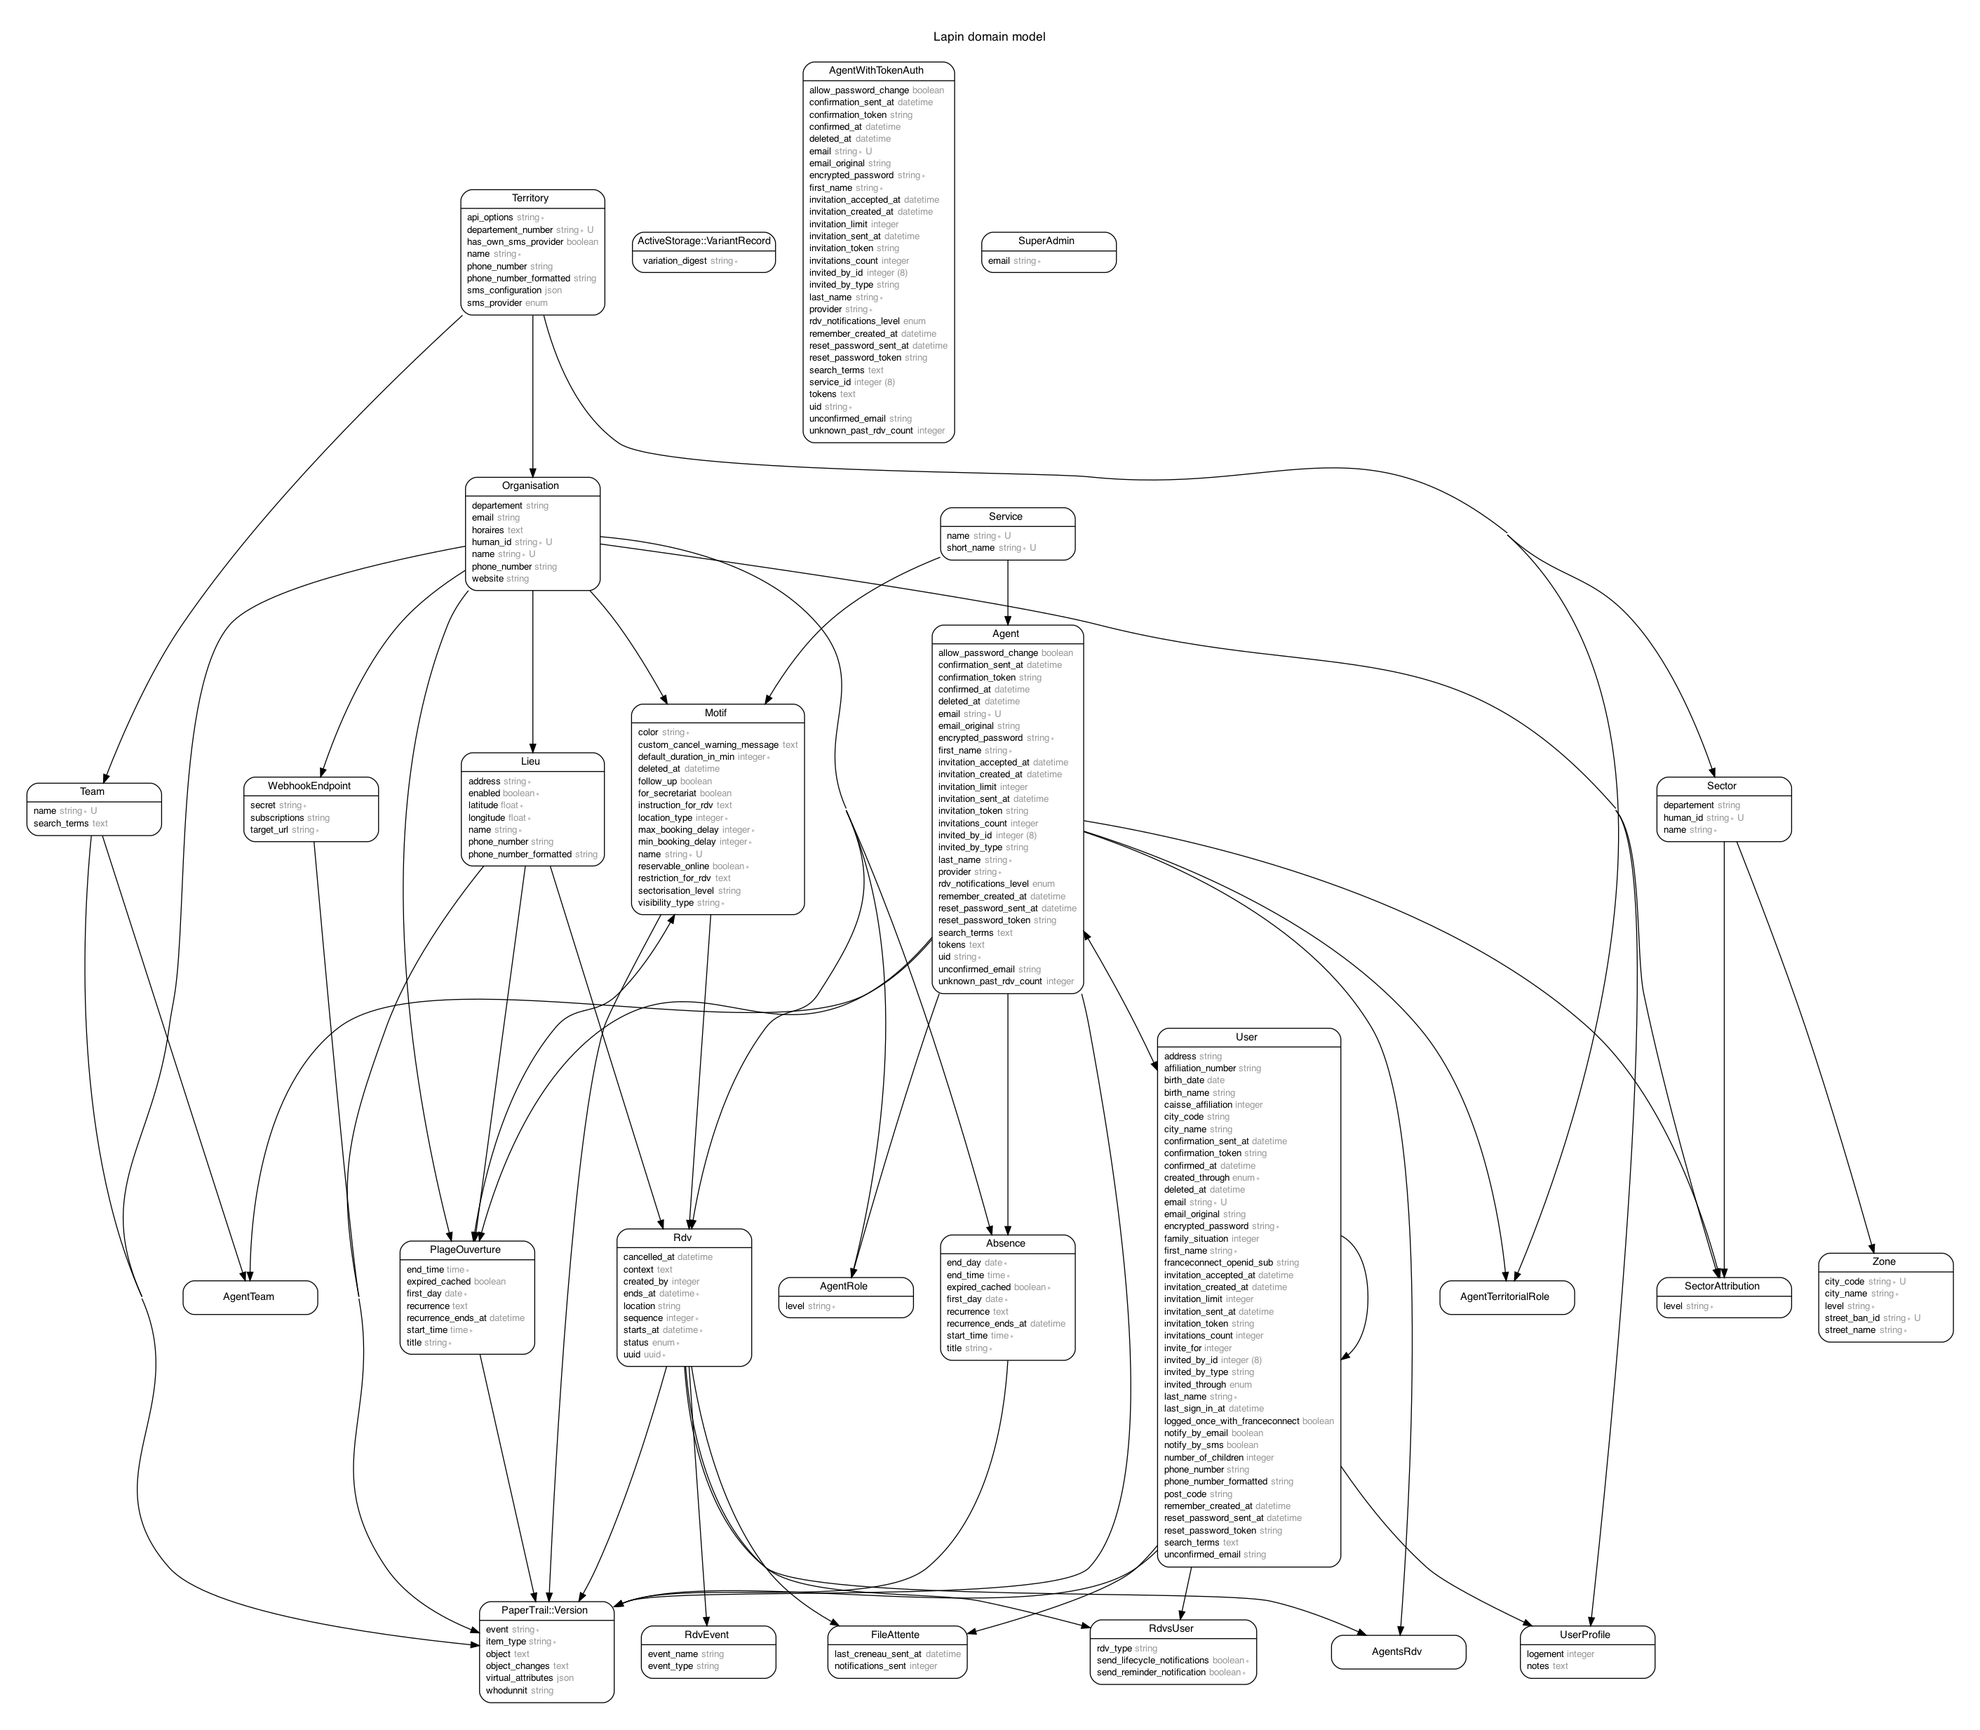
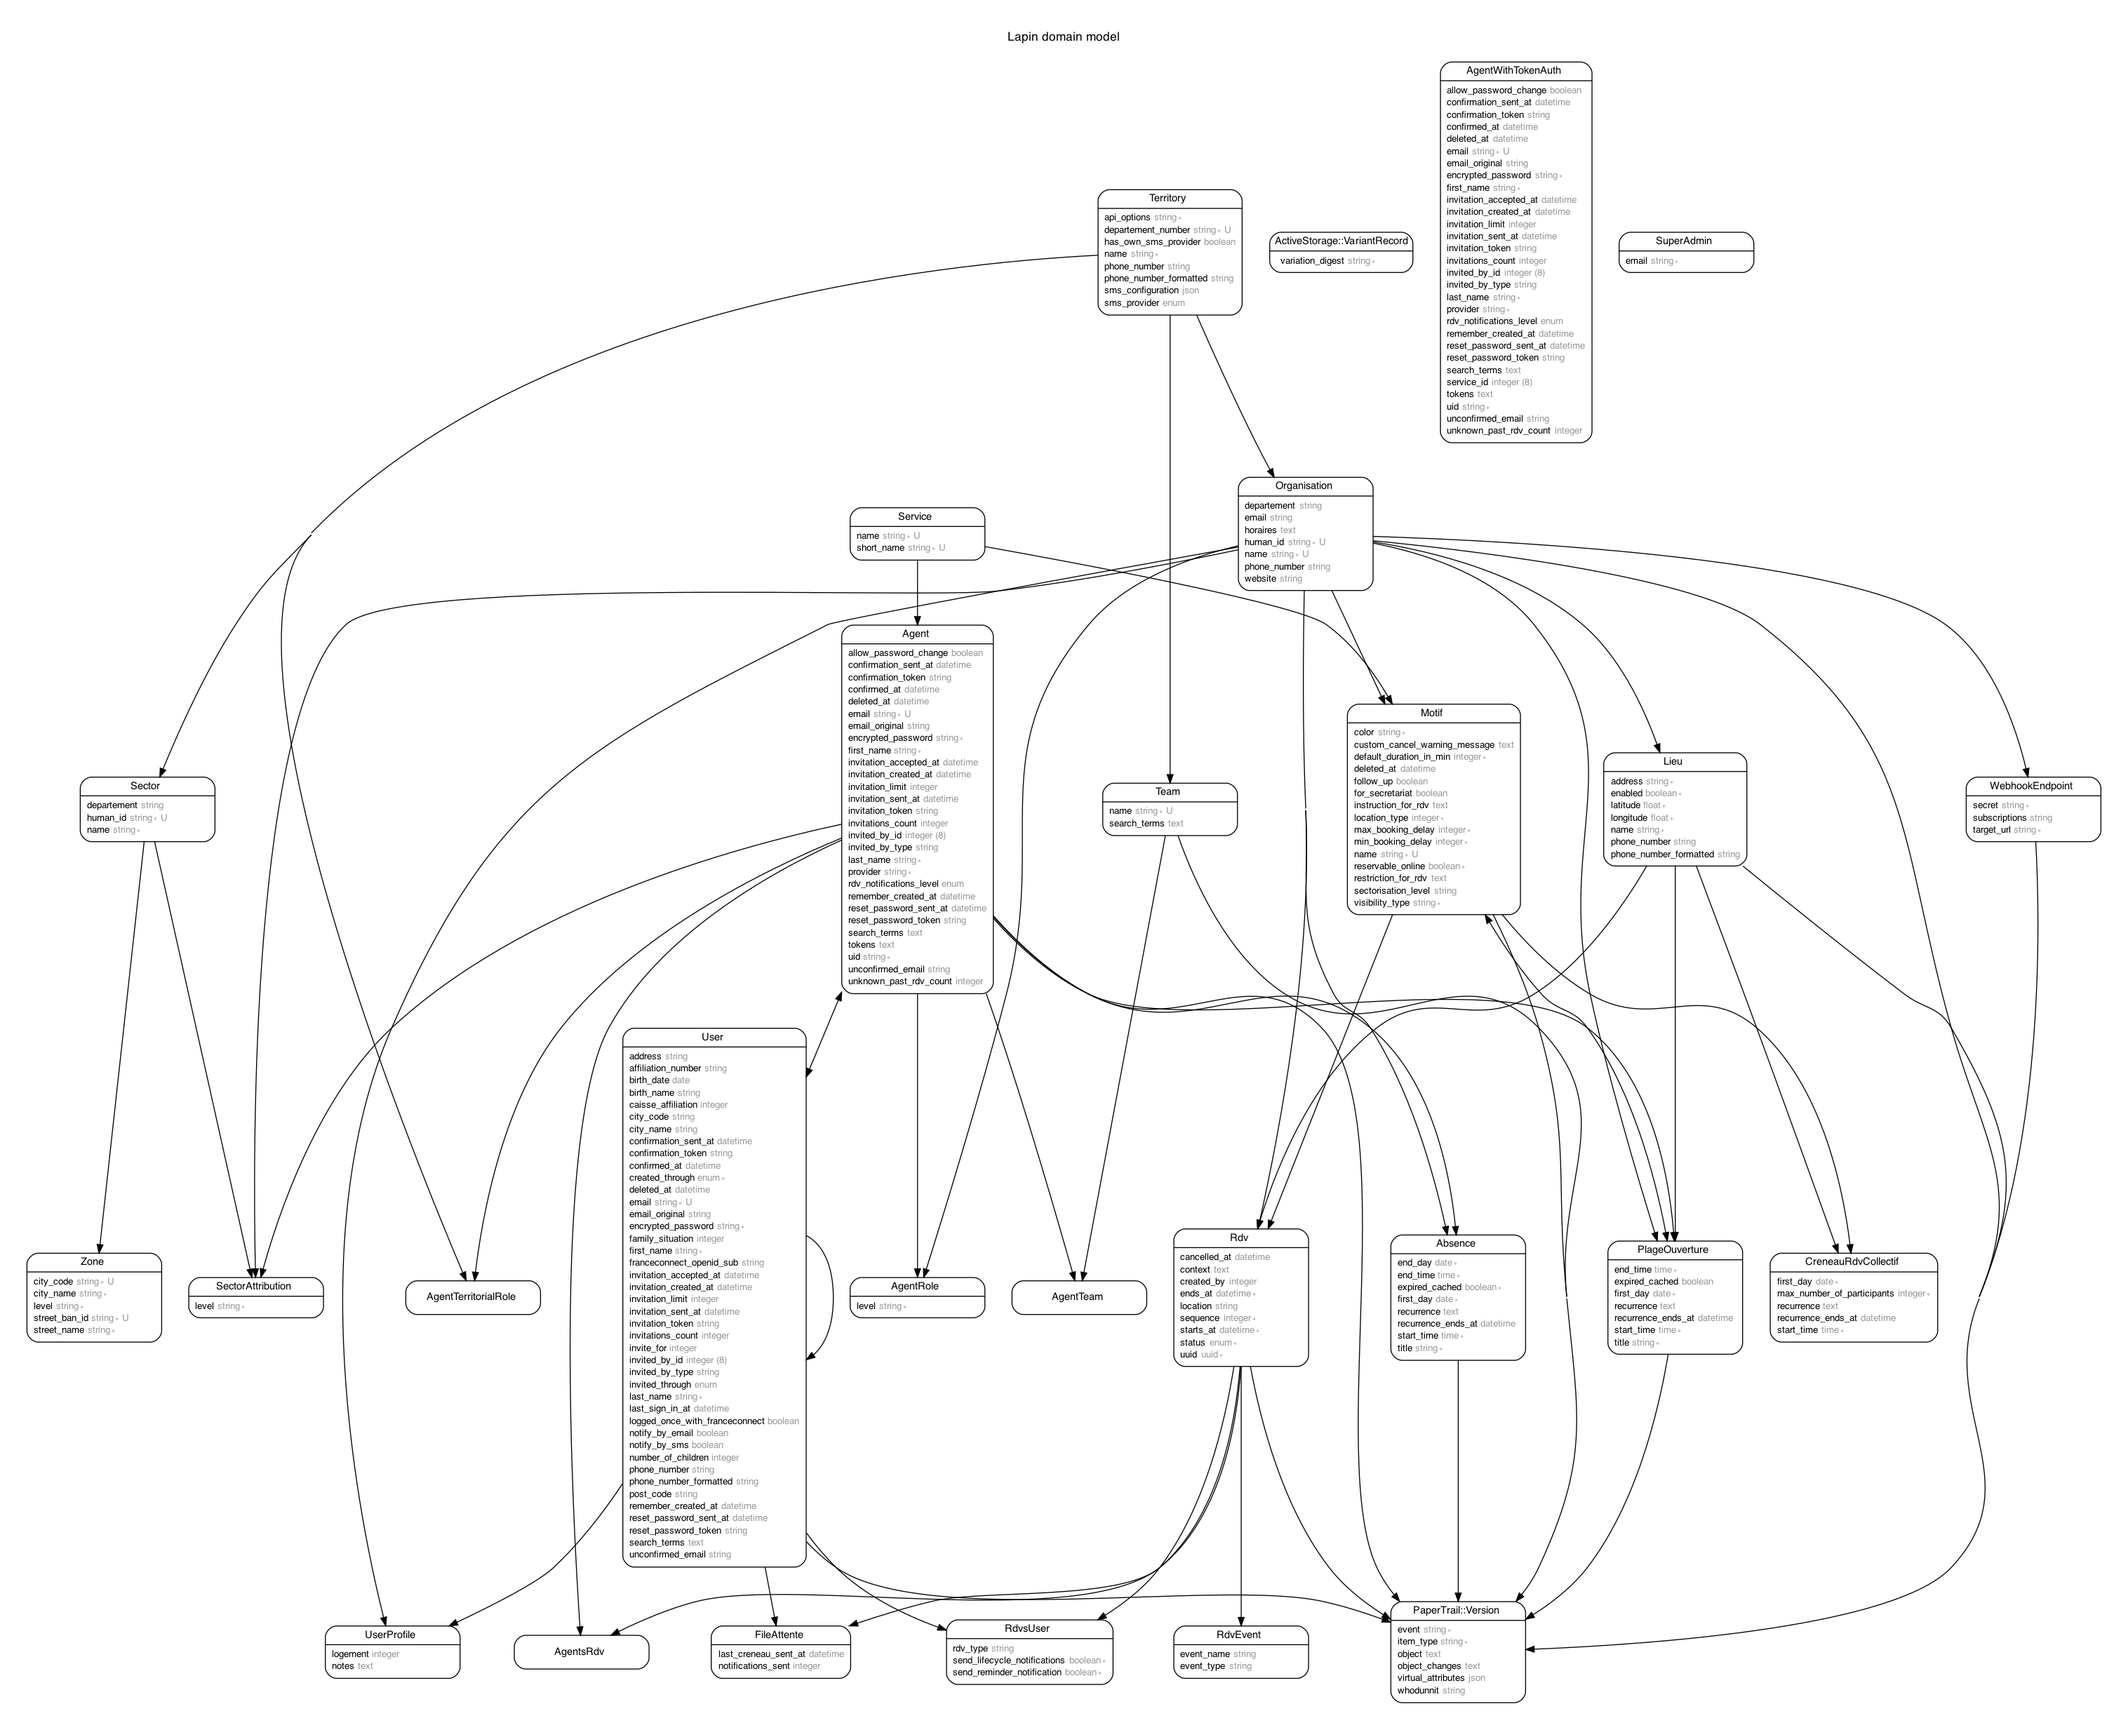
starting basic crud for creneau

diff --git a/app/policies/agent/creneau_rdv_collectif_policy.rb b/app/policies/agent/creneau_rdv_collectif_policy.rb
@@ -1,0 +1,31 @@
+# frozen_string_literal: true
+
+class Agent::CreneauRdvCollectifPolicy < Agent::AdminPolicy
+  include CurrentAgentInPolicyConcern
+
+  def agent_role_in_record_organisation
+    @agent_role_in_record_organisation ||= \
+      current_agent.roles.find_by(organisation_id: record.motif.organisation_id)
+  end
+
+  alias show? agent_role_in_record_organisation
+  alias create? agent_role_in_record_organisation
+  alias cancel? agent_role_in_record_organisation
+
+  def new?
+    true
+  end
+
+  alias update? agent_role_in_record_organisation
+  alias edit? agent_role_in_record_organisation
+  alias destroy? agent_role_in_record_organisation
+  alias versions? agent_role_in_record_organisation
+
+  class Scope < Scope
+    include CurrentAgentInPolicyConcern
+
+    def resolve
+      scope.joins(motif: :organisation).where(motifs: { organisation: current_agent.organisations })
+    end
+  end
+end

diff --git a/app/controllers/admin/creneau_rdv_collectifs_controller.rb b/app/controllers/admin/creneau_rdv_collectifs_controller.rb
@@ -1,0 +1,35 @@
+# frozen_string_literal: true
+
+class Admin::CreneauRdvCollectifsController < AgentAuthController
+  def index
+    @creneau_rdv_collectifs = policy_scope(CreneauRdvCollectif).where(motifs: { organisation: current_organisation }).page(filter_params[:page])
+  end
+
+  def new
+    @creneau_rdv_collectif = CreneauRdvCollectif.new
+    authorize(@creneau_rdv_collectif)
+  end
+
+  def edit
+  end
+
+  def create
+  end
+
+  def update
+    authorize(@absence)
+    if @absence.update(absence_params)
+      Agents::AbsenceMailer.absence_updated(@absence.payload(:update)).deliver_later
+      flash[:notice] = t(".busy_time_updated")
+      redirect_to admin_organisation_agent_absences_path(@absence.organisation_id, @absence.agent_id)
+    else
+      render :edit
+    end
+  end
+
+  private
+
+  def filter_params
+    params.permit(:page, :current_tab)
+  end
+end

diff --git a/app/models/creneau_rdv_collectif.rb b/app/models/creneau_rdv_collectif.rb
@@ -1,0 +1,19 @@
+# frozen_string_literal: true
+
+class CreneauRdvCollectif < ApplicationRecord
+  include RecurrenceConcern
+
+  belongs_to :lieu
+  belongs_to :motif
+
+  has_many :rdv_collectifs, dependent: :destroy
+
+  has_many :creneau_rdv_collectifs_agents, dependent: :destroy
+  has_many :agents, through: :creneau_rdv_collectifs_agents
+
+  def end_time
+    return if motif.blank?
+
+    start_time + (motif.default_duration_in_min * 60)
+  end
+end

diff --git a/db/schema.rb b/db/schema.rb
@@ -206,6 +206,7 @@ ActiveRecord::Schema.define(version: 2022_02_14_160550) do
   create_table "creneau_rdv_collectifs", force: :cascade do |t|
     t.bigint "motif_id"
     t.bigint "lieu_id"
+    t.integer "max_number_of_participants", null: false
     t.date "first_day", null: false
     t.time "start_time", null: false
     t.text "recurrence"

diff --git a/db/migrate/20220214160550_rdv_collectifs.rb b/db/migrate/20220214160550_rdv_collectifs.rb
@@ -3,6 +3,7 @@ class RdvCollectifs < ActiveRecord::Migration[6.1]
     create_table :creneau_rdv_collectifs do |t|
       t.belongs_to :motif
       t.belongs_to :lieu
+      t.integer :max_number_of_participants, null: false
 
       t.date "first_day", null: false
       t.time "start_time", null: false

diff --git a/config/routes.rb b/config/routes.rb
@@ -188,6 +188,7 @@ Rails.application.routes.draw do
             end
           end
         end
+        resources :creneau_rdv_collectifs, except: [:destroy]
         resources :invitations, only: [:index] do
           post :reinvite, on: :member
         end
